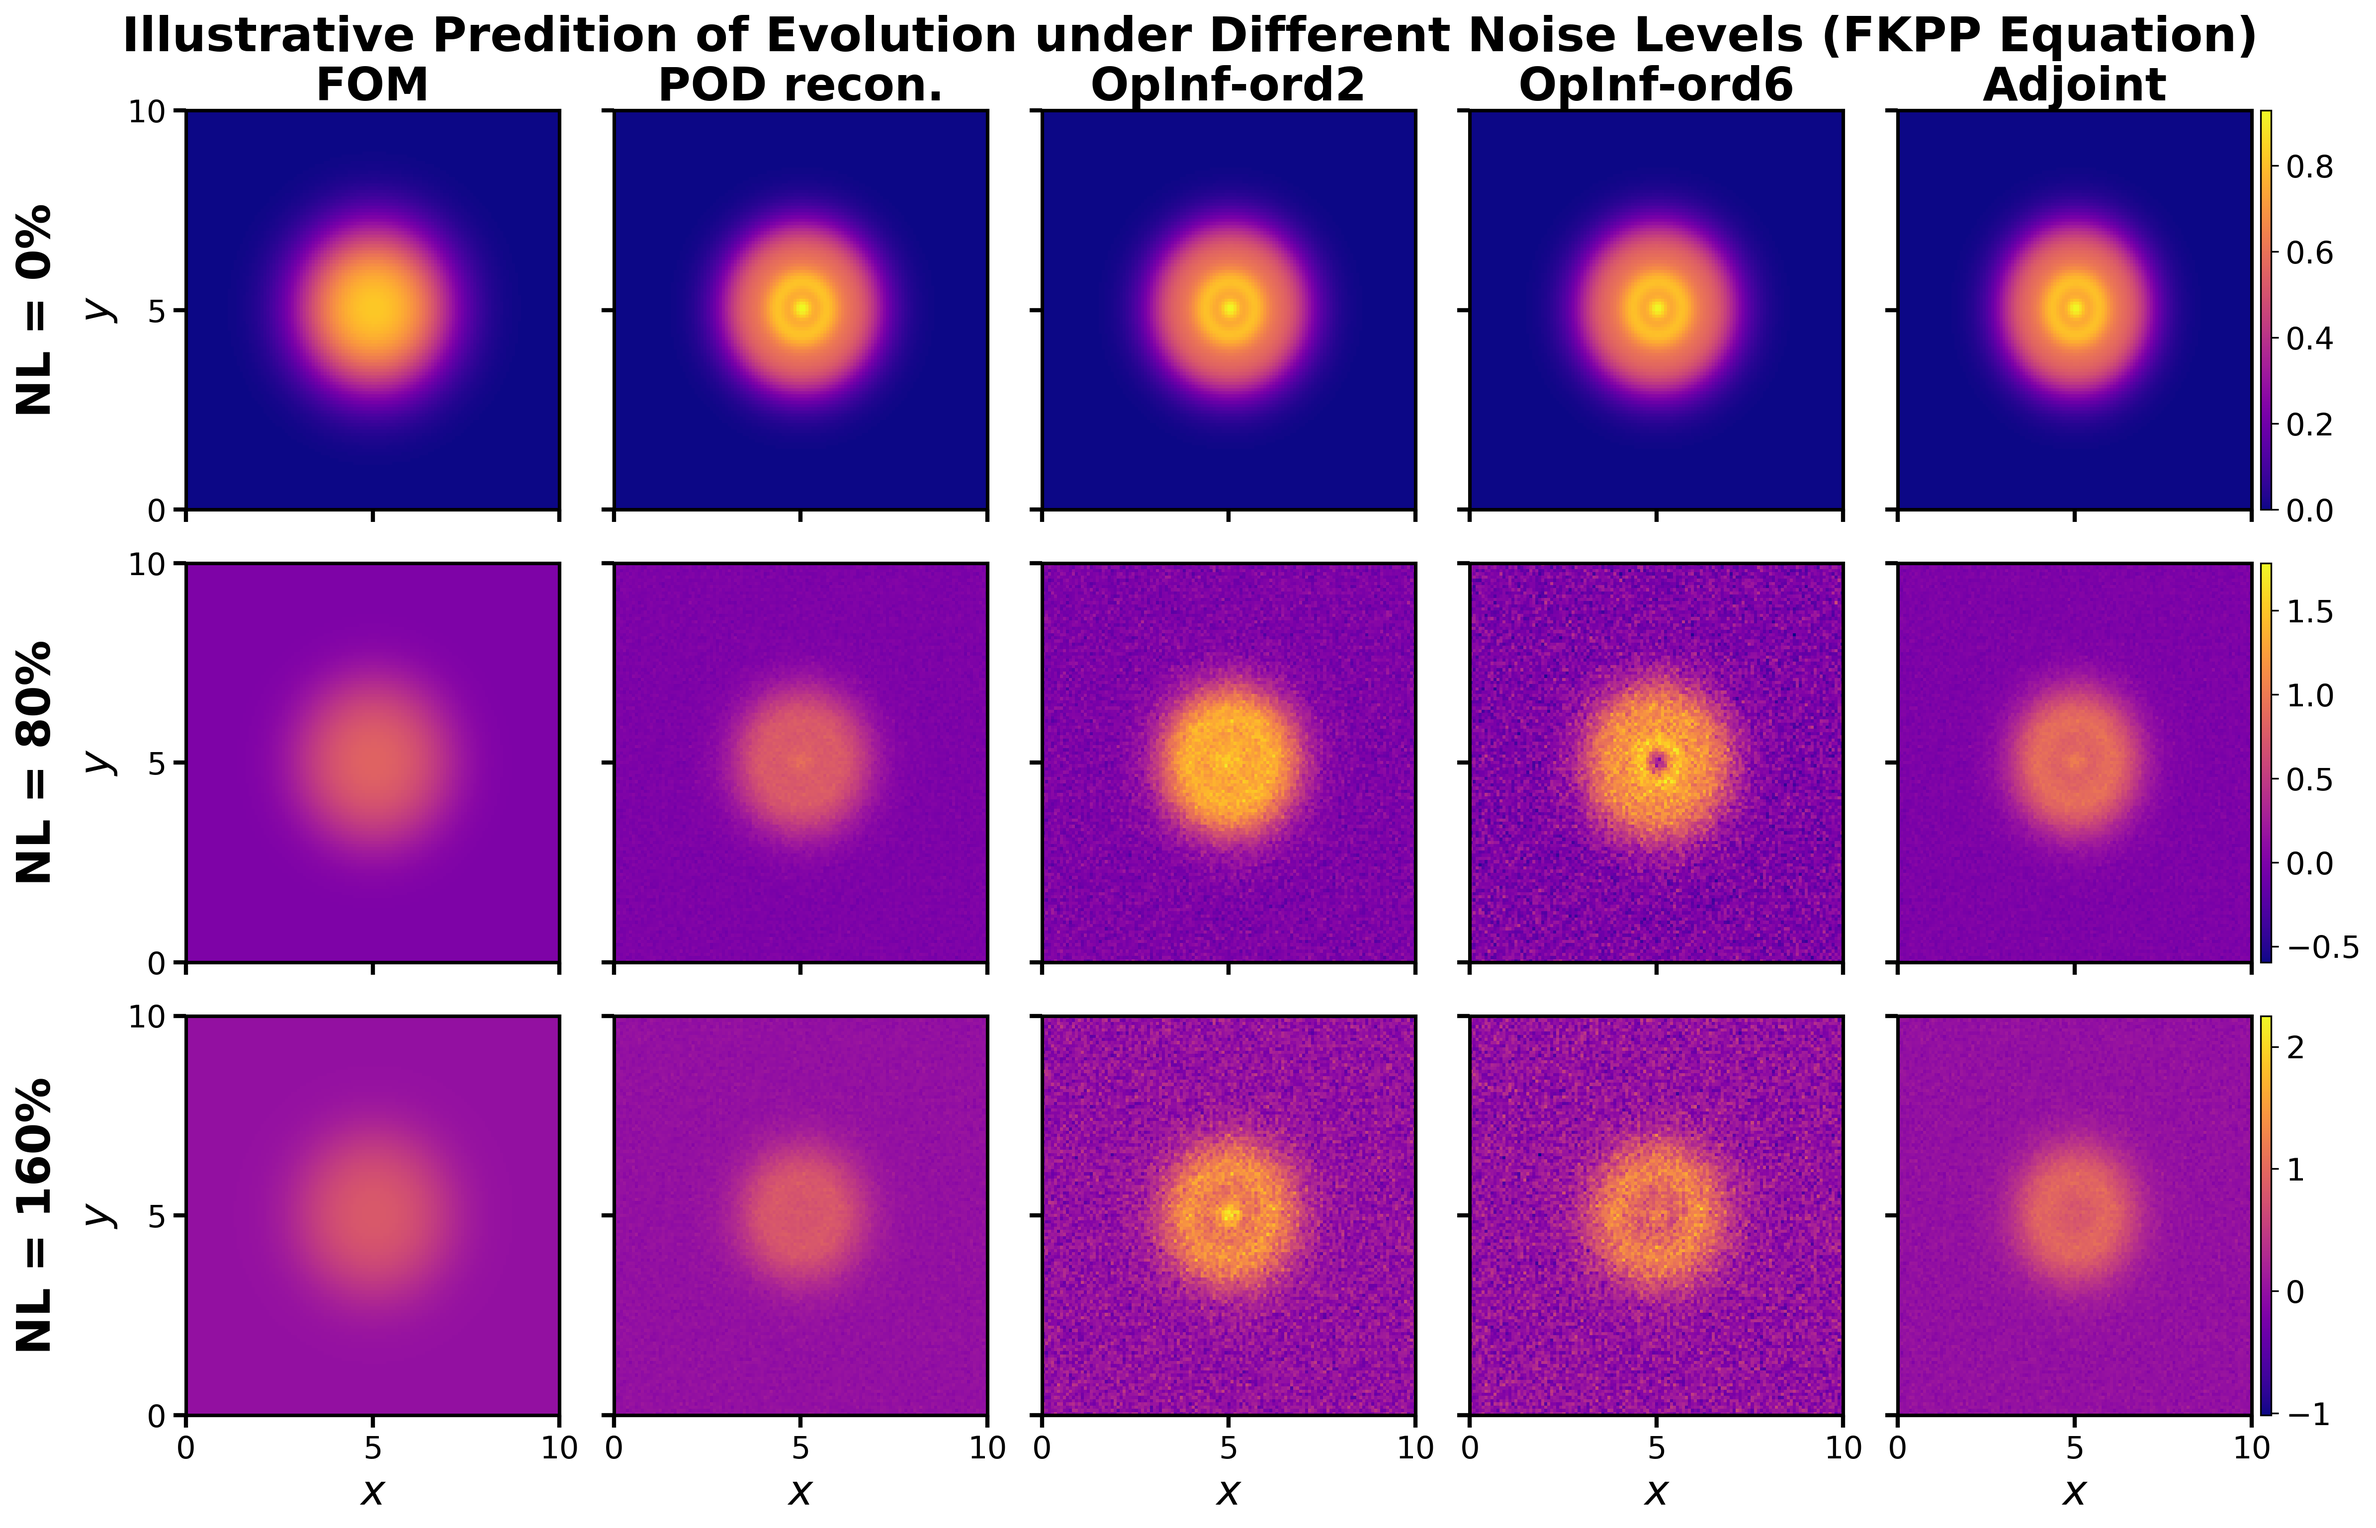
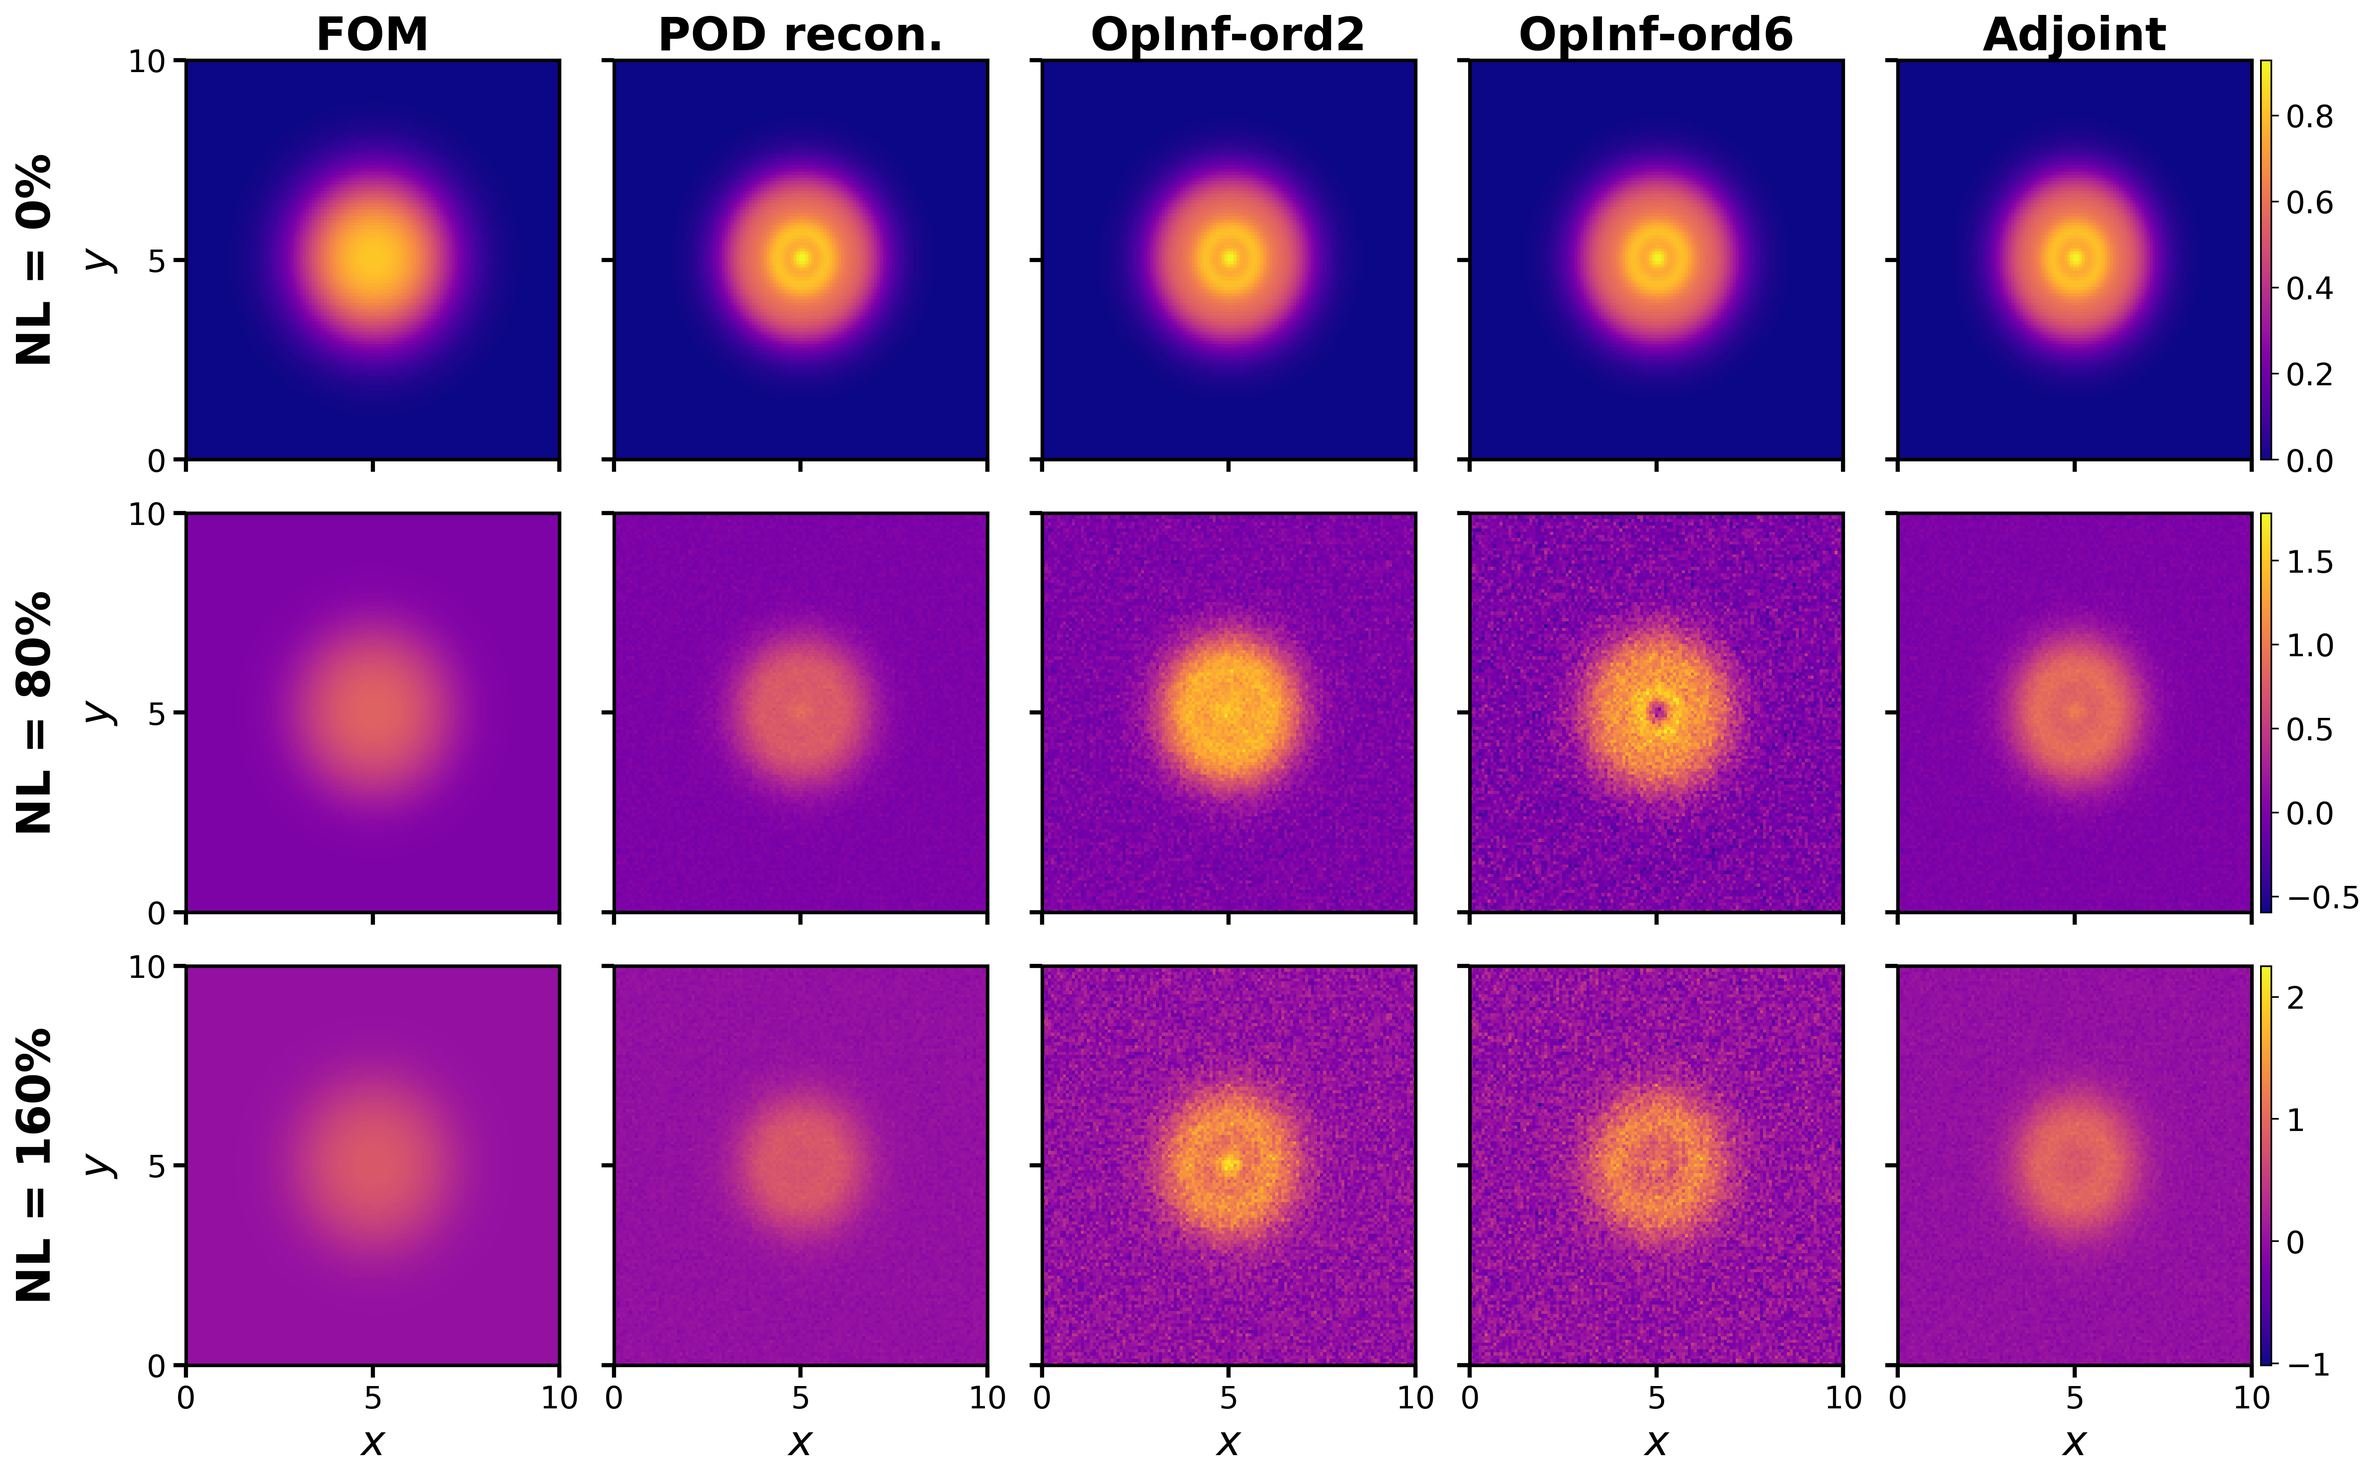
f

diff --git a/plot1.py b/plot1.py
@@ -320,8 +320,8 @@ axes[rr,cc].set_xlabel('Model Dimension (r)', fontsize='large')
 
 plt.subplots_adjust(hspace=0.01, wspace=0.01)
 plt.tight_layout()
-fig.suptitle("Model Performance under Different Noise and Sample Conditions (Burgers' Equation)",
-             fontsize=18, fontweight='bold', y=1.02)
+# fig.suptitle("Model Performance under Different Noise and Sample Conditions (Burgers' Equation)",
+#              fontsize=18, fontweight='bold', y=1.02)
 # Effect of Noise and Sample Size on Model Accuracy for the Burgers Equation System
 plt.savefig('./figures_analysis/plot_error_burgers.png',bbox_inches='tight',dpi=300)
 plt.show()
@@ -596,8 +596,8 @@ axes[rr,cc].set_xlabel('Model Dimension (r)', fontsize='large')
 
 plt.subplots_adjust(hspace=0.01, wspace=0.01)
 plt.tight_layout()
-fig.suptitle("Model Performance under Different Noise and Sample Conditions (FKPP Equation)",
-             fontsize=18, fontweight='bold', y=1.02)
+# fig.suptitle("Model Performance under Different Noise and Sample Conditions (FKPP Equation)",
+#              fontsize=18, fontweight='bold', y=1.02)
 # Effect of Noise and Sample Size on Model Accuracy for the Burgers Equation System
 plt.savefig('./figures_analysis/plot_error_fkpp.png',bbox_inches='tight',dpi=300)
 plt.show()
@@ -883,8 +883,8 @@ axes[rr,cc].set_xlabel('Model Dimension (r)', fontsize='large')
 
 plt.subplots_adjust(hspace=0.01, wspace=0.01)
 plt.tight_layout()
-fig.suptitle("Model Performance under Different Noise and Sample Conditions (CDE)",
-             fontsize=18, fontweight='bold', y=1.02)
+# fig.suptitle("Model Performance under Different Noise and Sample Conditions (CDE)",
+#              fontsize=18, fontweight='bold', y=1.02)
 # Effect of Noise and Sample Size on Model Accuracy for the Burgers Equation System
 plt.savefig('./figures_analysis/plot_error_CDE.png',bbox_inches='tight',dpi=300)
 plt.show()
@@ -1375,8 +1375,8 @@ axes[rr,cc].set_xlabel(r"$t$", fontsize=22, fontweight='bold')
 
 plt.subplots_adjust(hspace=0.01, wspace=0.01)
 plt.tight_layout()
-fig.suptitle("Illustrative Predictions under Different Noise Levels (Burgers' Equation)",
-             fontsize=26, fontweight='bold', y=1.02)
+# fig.suptitle("Illustrative Predictions under Different Noise Levels (Burgers' Equation)",
+#              fontsize=26, fontweight='bold', y=1.02)
 # Effect of Noise and Sample Size on Model Accuracy for the Burgers Equation System
 plt.savefig(f'./figures_analysis/plot_examples_burgers_sample{num_samples}.png',bbox_inches='tight',dpi=300)
 plt.show()
@@ -1884,8 +1884,8 @@ axes[rr,cc].set_xlabel(r"$t$", fontsize=22, fontweight='bold')
 
 plt.subplots_adjust(hspace=0.01, wspace=0.01)
 plt.tight_layout()
-fig.suptitle("Illustrative Predictions under Different Noise Levels (FKPP Equation)",
-             fontsize=26, fontweight='bold', y=1.02)
+# fig.suptitle("Illustrative Predictions under Different Noise Levels (FKPP Equation)",
+#              fontsize=26, fontweight='bold', y=1.02)
 # Effect of Noise and Sample Size on Model Accuracy for the Burgers Equation System
 plt.savefig(f'./figures_analysis/plot_examples_FKPP_sample{num_samples}.png',bbox_inches='tight',dpi=300)
 plt.show()
@@ -2398,8 +2398,8 @@ axes[rr,cc].set_xlabel(r"$t$", fontsize=22, fontweight='bold')
 
 plt.subplots_adjust(hspace=0.01, wspace=0.01)
 plt.tight_layout()
-fig.suptitle("Illustrative Predictions under Different Noise Levels (CDE)",
-             fontsize=26, fontweight='bold', y=1.02)
+# fig.suptitle("Illustrative Predictions under Different Noise Levels (CDE)",
+#              fontsize=26, fontweight='bold', y=1.02)
 # Effect of Noise and Sample Size on Model Accuracy for the Burgers Equation System
 plt.savefig(f'./figures_analysis/plot_examples_CDE_sample{num_samples}.png',bbox_inches='tight',dpi=300)
 plt.show()

diff --git a/plot2.py b/plot2.py
@@ -568,8 +568,8 @@ cbar.ax.tick_params(labelsize=15)
 
 plt.subplots_adjust(hspace=0.01, wspace=0.01)
 plt.tight_layout()
-fig.suptitle("Illustrative Predition of Evolution under Different Noise Levels (Burgers' Equation)",
-             fontsize=23, fontweight='bold', y=1.02)
+# fig.suptitle("Illustrative Predition of Evolution under Different Noise Levels (Burgers' Equation)",
+#              fontsize=23, fontweight='bold', y=1.02)
 # Effect of Noise and Sample Size on Model Accuracy for the Burgers Equation System
 plt.savefig(f'./figures_analysis/plot_examples_evolution_burgers_sample{num_samples}.png',bbox_inches='tight',dpi=300)
 plt.show()
@@ -1208,8 +1208,8 @@ cbar.ax.tick_params(labelsize=15)
 
 plt.subplots_adjust(hspace=0.01, wspace=0.01)
 plt.tight_layout()
-fig.suptitle("Illustrative Predition of Evolution under Different Noise Levels (FKPP Equation)",
-             fontsize=23, fontweight='bold', y=1.02)
+# fig.suptitle("Illustrative Predition of Evolution under Different Noise Levels (FKPP Equation)",
+#              fontsize=23, fontweight='bold', y=1.02)
 # Effect of Noise and Sample Size on Model Accuracy for the Burgers Equation System
 plt.savefig(f'./figures_analysis/plot_examples_evolution_FKPP_sample{num_samples}_end{only_end}.png',bbox_inches='tight',dpi=300)
 plt.show()
@@ -1838,8 +1838,8 @@ cbar.ax.tick_params(labelsize=15)
 
 plt.subplots_adjust(hspace=0.01, wspace=0.01)
 plt.tight_layout()
-fig.suptitle("Illustrative Predition of Evolution under Different Noise Levels (CDE)",
-             fontsize=23, fontweight='bold', y=1.02)
+# fig.suptitle("Illustrative Predition of Evolution under Different Noise Levels (CDE)",
+#              fontsize=23, fontweight='bold', y=1.02)
 # Effect of Noise and Sample Size on Model Accuracy for the Burgers Equation System
 plt.savefig(f'./figures_analysis/plot_examples_evolution_CDE_sample{num_samples}_end{only_end}.png',bbox_inches='tight',dpi=300)
 plt.show()

diff --git a/train_adjoint.py b/train_adjoint.py
@@ -525,8 +525,8 @@ if __name__ == "__main__":
     for opinf_use_val in [True, False]:
     # for opinf_use_val in [False]:
 
-        # for data_name in ['burgers', 'fkpp']:
-        for data_name in ['lcd']:
+        # for data_name in ['burgers', 'fkpp', 'lcd']:
+        for data_name in ['burgers']:
             if data_name=='fkpp':
                 step = 10 ## 1, 2, 4, 10
                 num_samples = 2001//step ## 2000 ##
@@ -548,7 +548,7 @@ if __name__ == "__main__":
             
             noise_level_list = [0, 40, 80, 120, 160, 200]
             for noise_level in noise_level_list:
-            # for noise_level in [160,200]:
+            # for noise_level in [40,200]:
                 
                 name_suffix = f'{data_name}_sam{num_samples}_ratio{ratio}_useVal{opinf_use_val}_noise{noise_level}_iter{max_iter}_smooth{smoother}'
 
